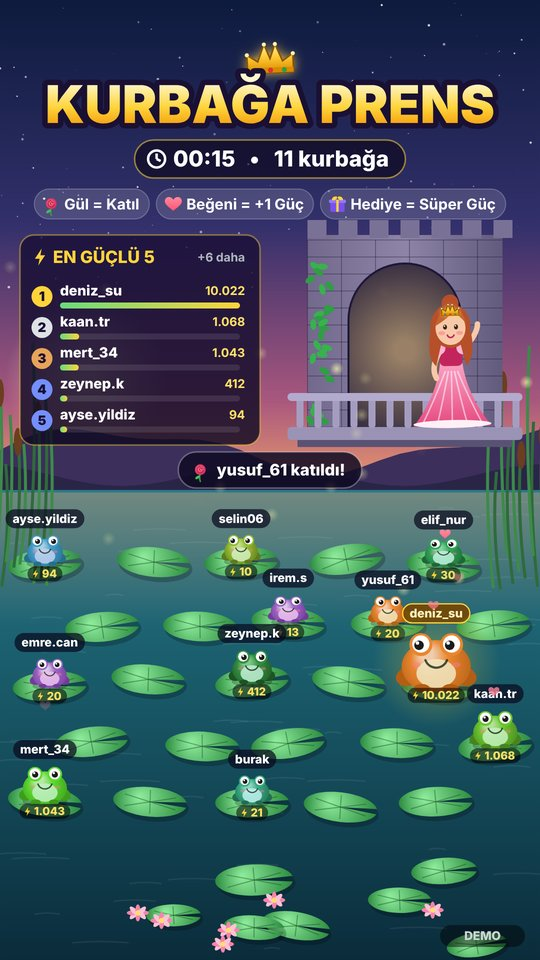
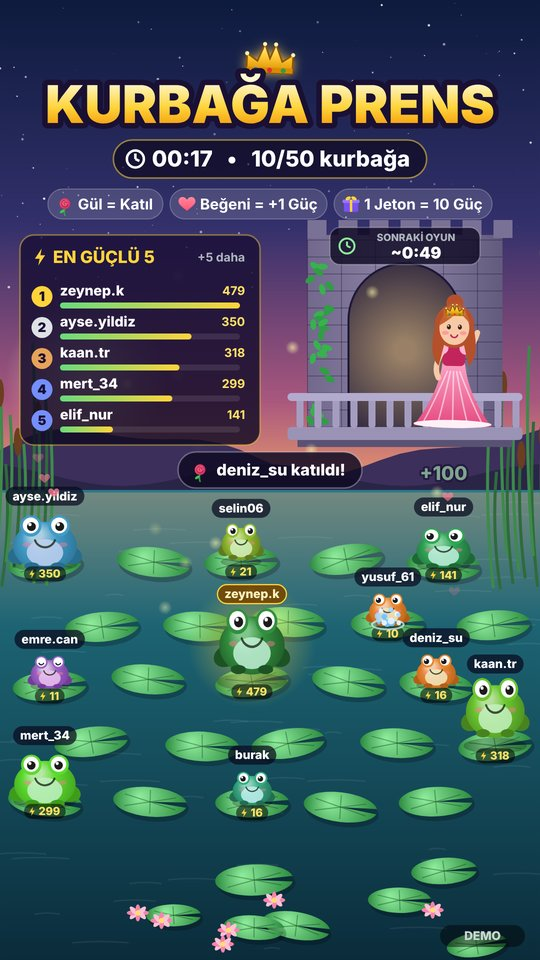
v1.2.0: ekranda jeton kuralı ve sonraki oyun sayacı
- Kural satırında '1 Jeton = 10 Güç'
- Hediye bildirimlerinde jeton → güç hesabı
- Kulenin üstünde 'Sonraki oyun' geri sayımı
- Yerleşim düzenlemesi, yeni test, güncel ekran görüntüleri

Claude-Session: https://claude.ai/code/session_01P8sEcV8qtq35udw68f7rvj

diff --git a/public/overlay.html b/public/overlay.html
@@ -43,8 +43,8 @@ const L = {
   balcony: { x: 575, y: 860, w: 470 },
   princess: { x: 905, y: 852 },
   prince: { x: 735, y: 852 },
-  toast: { y: 940 },
-  pond: { x: 50, y: 1060, w: 980, h: 600 }
+  toast: { y: 918 },
+  pond: { x: 50, y: 1100, w: 980, h: 580 }
 };
 
 /* ---------------- Yardımcılar ---------------- */
@@ -547,7 +547,7 @@ function onGameEvent(ev) {
         f.pulse = 1;
         if (big) burst(f.x, f.baseY - f.r, 30, ['#ffd43b', '#fff3bf', '#ff922b'], 520);
       }
-      if (ev.add >= 50 || big) addToast('gift', `${ev.name} → ${ev.gift}${ev.count > 1 ? ' ×' + ev.count : ''}  +${fmt(ev.add)} güç`, big);
+      if (ev.add >= 50 || big) addToast('gift', `${ev.name}: ${ev.gift}${ev.count > 1 ? ' ×' + ev.count : ''} = ${fmt(ev.coins || 0)} jeton → +${fmt(ev.add)} güç`, big);
       big ? sfx.big() : sfx.gift();
       break;
     }
@@ -686,7 +686,7 @@ function drawRules() {
   const items = [
     ['rose', 'Gül = Katıl'],
     ['heart', `Beğeni = +${lp} Güç`],
-    ['gift', 'Hediye = Süper Güç']
+    ['gift', `1 Jeton = ${state ? fmt(state.settings.giftMultiplier) : 10} Güç`]
   ];
   const widths = items.map(i => measure(i[1], 30) + 78);
   const gap = 14, total = widths.reduce((a, b) => a + b, 0) + gap * 2;
@@ -756,6 +756,25 @@ function drawBoard(ranked) {
   if (extra > 0) text(`+${extra} daha`, B.x + B.w - 30, B.y + 46, 24, { align: 'right', color: '#adb5bd', weight: 700 });
 }
 
+function drawNextGame(now) {
+  if (!state || state.nextGameIn == null) return;
+  const left = Math.max(0, state.nextGameIn - (now - stateAt));
+  const s = Math.ceil(left / 1000), mm = Math.floor(s / 60), ss = String(s % 60).padStart(2, '0');
+  const approx = state.phase === 'win' ? '' : '~';
+  const x = 810, y = 492, w = 300, h = 74;
+  ctx.save();
+  rr(x - w / 2, y - h / 2, w, h, 20);
+  ctx.fillStyle = 'rgba(15,10,35,.82)'; ctx.fill();
+  ctx.lineWidth = 2.5; ctx.strokeStyle = state.phase === 'win' ? 'rgba(140,233,154,.8)' : 'rgba(255,255,255,.28)'; ctx.stroke();
+  ctx.restore();
+  // saat ikonu
+  ctx.save(); ctx.strokeStyle = '#8ce99a'; ctx.lineWidth = 4; const ix = x - w / 2 + 34;
+  ctx.beginPath(); ctx.arc(ix, y, 15, 0, Math.PI * 2); ctx.stroke();
+  ctx.beginPath(); ctx.moveTo(ix, y); ctx.lineTo(ix, y - 9); ctx.moveTo(ix, y); ctx.lineTo(ix + 7, y + 3); ctx.stroke(); ctx.restore();
+  text('SONRAKİ OYUN', x + 22, y - 16, 20, { color: '#adb5bd', weight: 800 });
+  text(`${approx}${mm}:${ss}`, x + 22, y + 15, 32, { color: '#ffffff', weight: 900 });
+}
+
 function drawToasts(now) {
   // sıradaki bildirimi göster (kuyruk uzunsa daha hızlı akar)
   if (!toasts.length) {
@@ -763,7 +782,7 @@ function drawToasts(now) {
       const msg = 'Hediye atmaya devam! Kurbağanı kurtar!';
       const w = measure(msg, 34) + 110, y = L.toast.y, p = 1 + Math.sin(now / 160) * .03;
       ctx.save(); ctx.translate(W / 2, y); ctx.scale(p, p);
-      rr(-w / 2, -36, w, 72, 36); ctx.fillStyle = 'rgba(150,20,35,.9)'; ctx.fill();
+      rr(-w / 2, -31, w, 62, 31); ctx.fillStyle = 'rgba(150,20,35,.9)'; ctx.fill();
       ctx.lineWidth = 3; ctx.strokeStyle = '#ffc9c9'; ctx.stroke();
       iconGift(-w / 2 + 44, 0, 34);
       text(msg, 22, 1, 34, { color: '#fff' });
@@ -781,7 +800,7 @@ function drawToasts(now) {
   const size = t.gold ? 36 : 32;
   const w = Math.min(1000, measure(t.msg, size) + 110);
   ctx.save(); ctx.globalAlpha = a;
-  rr(W / 2 - w / 2, y - 36, w, 72, 36);
+  rr(W / 2 - w / 2, y - 31, w, 62, 31);
   ctx.fillStyle = t.gold ? 'rgba(120,70,0,.9)' : 'rgba(15,10,35,.85)'; ctx.fill();
   ctx.lineWidth = 3; ctx.strokeStyle = t.gold ? '#ffd43b' : 'rgba(255,255,255,.3)'; ctx.stroke();
   const ix = W / 2 - w / 2 + 44;
@@ -1064,6 +1083,7 @@ function frame(now) {
   drawPrincess(L.princess.x, L.princess.y, t, { kiss: win.princessKiss, wave: !state || state.phase === 'lobby' });
   if (inWin && win.showPrince) drawPrince(L.prince.x, L.prince.y, t, clamp((win.el - (win.P3 - .4)) / .4, 0, 1));
 
+  if (!(state && state.curtain)) drawNextGame(now);
   drawToasts(now);
   drawBanner(now);
   drawParticles(dt);

diff --git a/public/engine.js b/public/engine.js
@@ -171,7 +171,7 @@
       if (!p.alive || this.phase === 'win') return { ok: false, reason: 'not-active' };
       if (user.avatar) p.avatar = user.avatar;
       p.power += power;
-      this.emit({ type: 'power', id, name: p.name, add: power, power: p.power, gift: gift.giftName || 'Hediye', count, big: power >= 100 * this.settings.giftMultiplier / 10 });
+      this.emit({ type: 'power', id, name: p.name, add: power, power: p.power, gift: gift.giftName || 'Hediye', count, coins: diamonds * count });
       return { ok: true };
     }
 
@@ -277,11 +277,20 @@
         if (winner.hidden || !this.settings.showWinnerAvatar) winner.avatar = null;
         delete winner.hidden;
       }
-      let dangerId = null, elimLeft = null;
+      let dangerId = null, elimLeft = null, nextGameIn = null;
+      const winMs = this.settings.winSeconds * 1000;
       if (this.phase === 'fight') {
         const ranked = this._ranked();
         if (ranked.length > 1) dangerId = ranked[ranked.length - 1].id;
         elimLeft = Math.max(0, this.nextElimAt - now);
+        // Kalan elemeler + son bekleme + kazanan ekranı (yaklaşık)
+        nextGameIn = elimLeft + Math.max(0, ranked.length - 2) * this.elimInterval + (ranked.length > 1 ? 1300 : 0) + winMs;
+      } else if (this.phase === 'win') {
+        nextGameIn = Math.max(0, this.winEndsAt - now);
+      } else if (this.roundEndsAt) {
+        const n = this.aliveCount();
+        const interval = n > 1 ? Math.max(400, Math.min(6000, (this.settings.fightSeconds * 1000) / (n - 1))) : 0;
+        nextGameIn = Math.max(0, this.roundEndsAt - now) + 3000 + Math.max(0, n - 2) * interval + 1300 + winMs;
       }
       return {
         phase: this.phase,
@@ -289,6 +298,7 @@
         now,
         dangerId,
         elimLeft,
+        nextGameIn,
         elimInterval: this.elimInterval,
         maxPlayers: this.settings.maxPlayers,
         timeLeft: this.roundEndsAt ? Math.max(0, this.roundEndsAt - now) : null,

diff --git a/test/engine.test.js b/test/engine.test.js
@@ -112,3 +112,20 @@ test('savaş varsayılan olarak yaklaşık 20 saniye sürer ve hediyeyle kurtulu
   g.tick(3000);
   assert.ok(g.players.get(danger).alive, 'hediye atılan kurbağa kurtulmalı');
 });
+
+test('sonraki oyuna kalan süre her aşamada hesaplanır', () => {
+  const g = new Game({ minPlayers: 2, roundSeconds: 60, fightSeconds: 20, winSeconds: 15 });
+  assert.equal(g.snapshot(0).nextGameIn, null);
+  for (let i = 0; i < 3; i++) g.handleGift({ id: 'p' + i, name: 'o' + i }, ROSE, 0);
+  const lobby = g.snapshot(0).nextGameIn;
+  assert.ok(lobby > 60000 + 15000);
+  g.startFight(0);
+  const fight = g.snapshot(0).nextGameIn;
+  assert.ok(fight > 15000 && fight < lobby);
+  let t = 0;
+  while (g.phase === 'fight') { t += 100; g.tick(t); }
+  const win = g.snapshot(t).nextGameIn;
+  assert.ok(win <= 15000 && win > 14000);
+  // tahmin gerçek süreye yakın olmalı
+  assert.ok(Math.abs((t + 15000) - fight) < 500, `tahmin ${fight}, gerçek ${t + 15000}`);
+});

diff --git a/README.md b/README.md
@@ -46,7 +46,8 @@ Ses istemiyorsan adresin sonuna `?sound=0` ekle.
 3. Gerisi otomatik ilerler:
    - 🌹 **Gül** atan kişi kurbağa olarak oyuna girer. Bir turda **en fazla 50 kurbağa** olabilir. Tur doluyken gül atanlar otomatik olarak sonraki tura sıraya girer.
    - ❤ Her **beğeni** = +1 güç (panelden değiştirilebilir).
-   - 🎁 **Hediye** = elmas değeri × adet × 10 güç.
+   - 🎁 **Hediye:** **1 jeton = 10 güç**. Hediyenin jeton değeri × adet × 10. Örneğin 20 jetonluk Perfume +200 güç verir. Ekrandaki kural satırında ve her hediye bildiriminde bu hesap gösterilir ("Perfume = 20 jeton → +200 güç").
+   - Kulenin üstündeki küçük **"Sonraki oyun"** sayacı yeni tura kalan süreyi gösterir. Bekleme ve savaş sırasında yaklaşık süreyi (~), kazanan ekranında ise kesin süreyi gösterir.
    - En az 2 oyuncu olunca süre başlar (varsayılan 3 dakika).
    - Süre bitince **savaş** başlar (varsayılan yaklaşık 20 saniye). Her adımda en zayıf kurbağa elenir.
    - Savaşta **hediye atmaya devam edilir**. Sıradaki elenecek kurbağa kırmızı **"TEHLİKEDE!"** yazısıyla işaretlenir, altındaki halka kalan süreyi gösterir. Sahibi ya da arkadaşları hediye atarsa kurbağa **"KURTULDU!"** efektiyle hayatta kalır.

diff --git a/CHANGELOG.md b/CHANGELOG.md
@@ -1,5 +1,11 @@
 # Değişiklik Günlüğü
 
+## 1.2.0 — 2026-11-22
+- Ekranda güç kuralı: "1 Jeton = 10 Güç" (çarpan ayarından otomatik)
+- Hediye bildirimlerinde jeton hesabı: "Perfume = 20 jeton → +200 güç"
+- Kulenin üstünde küçük "Sonraki oyun" geri sayımı
+- Göl ve bildirim yerleşimi düzenlendi (savaş uyarısı isimleri kapatmıyor)
+
 ## 1.1.0 — 2026-11-22
 - Tur başına en fazla 50 oyuncu (panelden değiştirilebilir); fazlası otomatik olarak sonraki tura sıraya girer
 - Savaş varsayılan olarak yaklaşık 20 saniye sürer; az oyuncuda elemeler arası uzar
